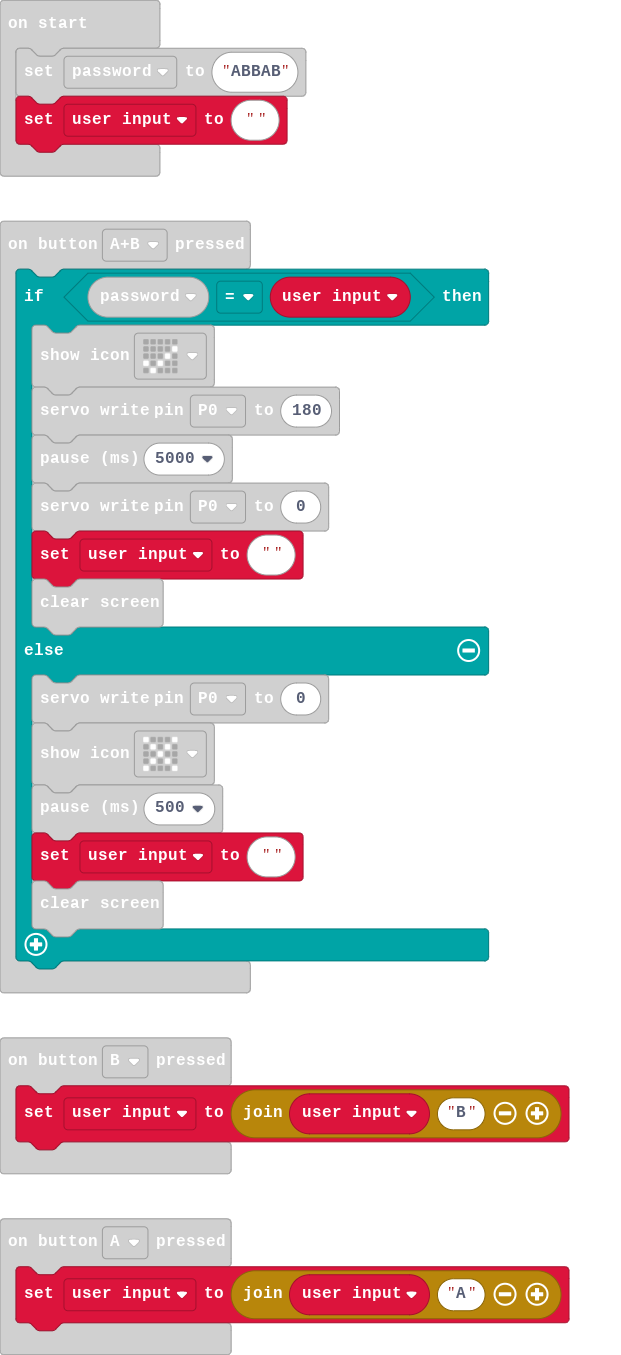
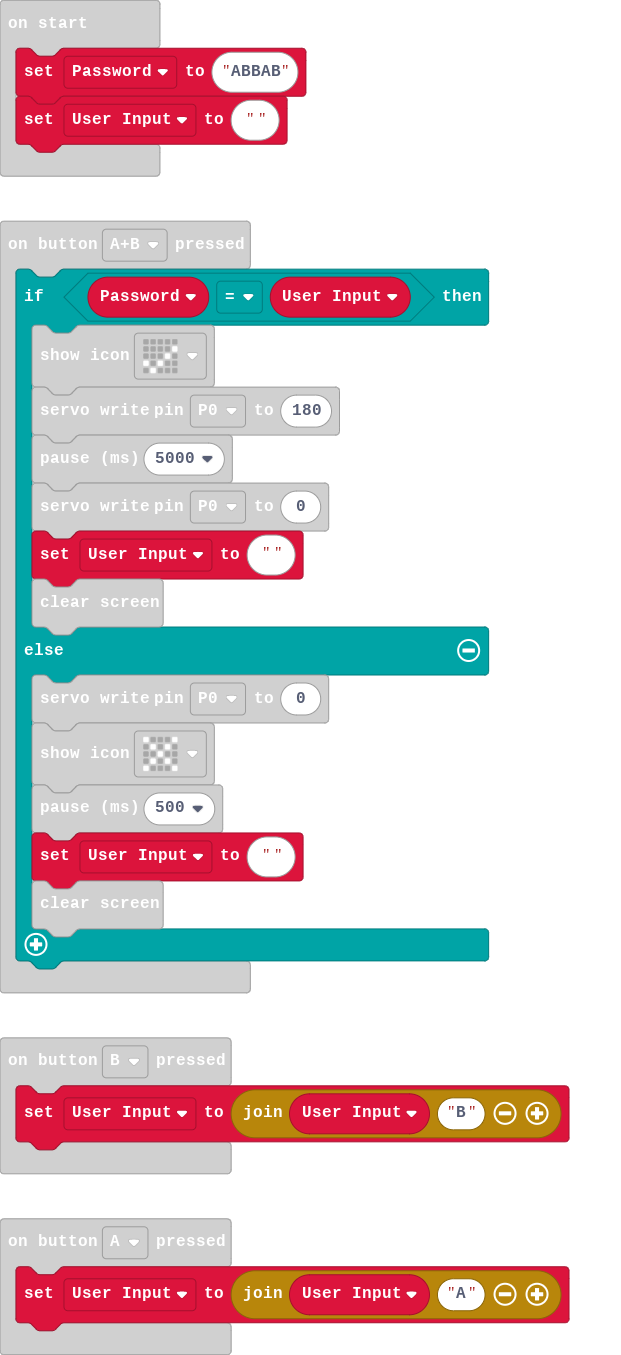
Update main.blocks, main.ts

Changed region(s): [[0.0, 0.031, 0.5201, 0.093], [0.1224, 0.186, 0.3366, 0.248]]

diff --git a/main.ts b/main.ts
@@ -1,26 +1,26 @@
 input.onButtonPressed(Button.A, function () {
-    user_input = "" + user_input + "A"
+    User_Input = "" + User_Input + "A"
 })
 input.onButtonPressed(Button.AB, function () {
-    if (password == user_input) {
+    if (Password == User_Input) {
         basic.showIcon(IconNames.Yes)
         pins.servoWritePin(AnalogPin.P0, 180)
         basic.pause(5000)
         pins.servoWritePin(AnalogPin.P0, 0)
-        user_input = ""
+        User_Input = ""
         basic.clearScreen()
     } else {
         pins.servoWritePin(AnalogPin.P0, 0)
         basic.showIcon(IconNames.No)
         basic.pause(500)
-        user_input = ""
+        User_Input = ""
         basic.clearScreen()
     }
 })
 input.onButtonPressed(Button.B, function () {
-    user_input = "" + user_input + "B"
+    User_Input = "" + User_Input + "B"
 })
-let user_input = ""
-let password = ""
-password = "ABBAB"
-user_input = ""
+let User_Input = ""
+let Password = ""
+Password = "ABBAB"
+User_Input = ""
